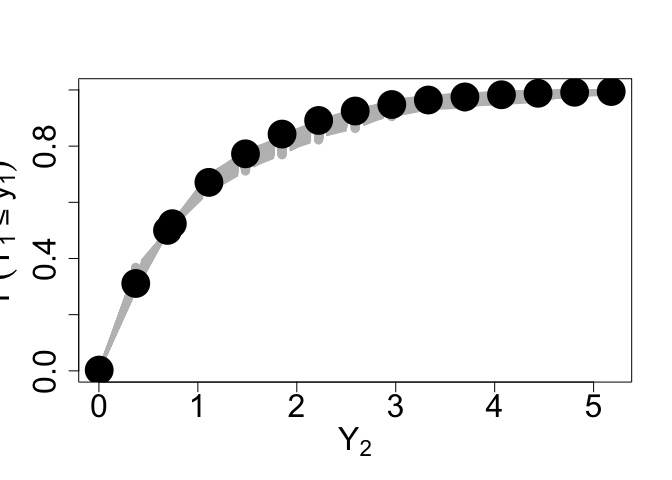
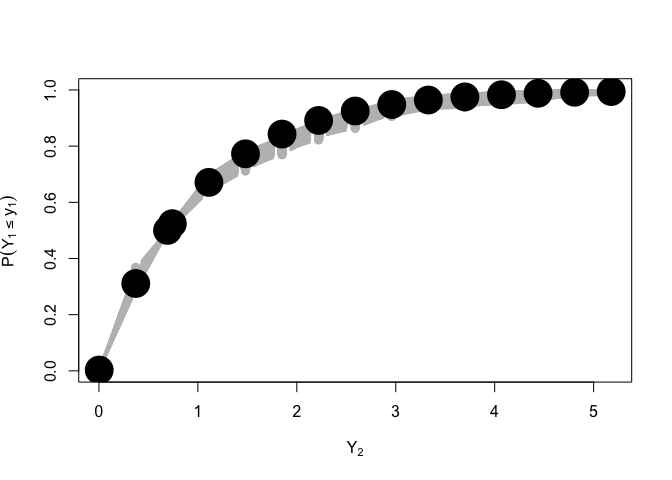
read me

diff --git a/README.md b/README.md
@@ -53,7 +53,7 @@ $\boldsymbol Y_{ij}$ for $R_{ij}>0$.
   print("Missingness in Each Y_j:")
 #> [1] "Missingness in Each Y_j:"
   print(colMeans(R))
-#> [1] 0.506 0.494 0.506 0.497 0.489
+#> [1] 0.500 0.493 0.504 0.501 0.490
 
   # Now we'll create the study variables. Here we use gamma, t, and beta marginals 
   
@@ -90,29 +90,29 @@ $\boldsymbol Y_{ij}$ for $R_{ij}>0$.
       print("Summary of (Y^obs, R)")
 #> [1] "Summary of (Y^obs, R)"
       print(summary(Y_obs))
-#>       Y_j              Y_j               Y_j              Y_j        
-#>  Min.   :0.0081   Min.   :-0.0355   Min.   :0.0090   Min.   :0.0019  
-#>  1st Qu.:0.4302   1st Qu.: 1.9208   1st Qu.:0.2646   1st Qu.:0.2944  
-#>  Median :0.9727   Median : 2.6170   Median :0.4255   Median :0.6834  
-#>  Mean   :1.2575   Mean   : 3.0192   Mean   :0.4416   Mean   :0.9734  
-#>  3rd Qu.:1.7460   3rd Qu.: 3.8264   3rd Qu.:0.6164   3rd Qu.:1.2889  
-#>  Max.   :6.5230   Max.   : 9.9533   Max.   :0.9736   Max.   :5.7611  
-#>  NA's   :506      NA's   :494       NA's   :506      NA's   :497     
-#>       Y_j               V6              V7              V8       
-#>  Min.   :-1.462   Min.   :0.000   Min.   :0.000   Min.   :0.000  
-#>  1st Qu.: 1.183   1st Qu.:0.000   1st Qu.:0.000   1st Qu.:0.000  
-#>  Median : 1.834   Median :1.000   Median :0.000   Median :1.000  
-#>  Mean   : 2.091   Mean   :0.506   Mean   :0.494   Mean   :0.506  
-#>  3rd Qu.: 2.761   3rd Qu.:1.000   3rd Qu.:1.000   3rd Qu.:1.000  
-#>  Max.   :10.089   Max.   :1.000   Max.   :1.000   Max.   :1.000  
-#>  NA's   :489                                                     
-#>        V9             V10       
-#>  Min.   :0.000   Min.   :0.000  
-#>  1st Qu.:0.000   1st Qu.:0.000  
-#>  Median :0.000   Median :0.000  
-#>  Mean   :0.497   Mean   :0.489  
-#>  3rd Qu.:1.000   3rd Qu.:1.000  
-#>  Max.   :1.000   Max.   :1.000  
+#>       Y_j              Y_j              Y_j              Y_j        
+#>  Min.   :0.0049   Min.   :-1.832   Min.   :0.0006   Min.   :0.0003  
+#>  1st Qu.:0.2970   1st Qu.: 1.181   1st Qu.:0.1080   1st Qu.:0.2655  
+#>  Median :0.6921   Median : 1.974   Median :0.2324   Median :0.6585  
+#>  Mean   :1.0209   Mean   : 2.185   Mean   :0.2797   Mean   :0.9427  
+#>  3rd Qu.:1.4553   3rd Qu.: 2.940   3rd Qu.:0.4061   3rd Qu.:1.2528  
+#>  Max.   :7.8066   Max.   : 8.637   Max.   :0.9299   Max.   :7.1838  
+#>  NA's   :500      NA's   :493      NA's   :504      NA's   :501     
+#>       Y_j                V6            V7              V8       
+#>  Min.   :-1.8681   Min.   :0.0   Min.   :0.000   Min.   :0.000  
+#>  1st Qu.: 0.9891   1st Qu.:0.0   1st Qu.:0.000   1st Qu.:0.000  
+#>  Median : 1.6290   Median :0.5   Median :0.000   Median :1.000  
+#>  Mean   : 1.7518   Mean   :0.5   Mean   :0.493   Mean   :0.504  
+#>  3rd Qu.: 2.4742   3rd Qu.:1.0   3rd Qu.:1.000   3rd Qu.:1.000  
+#>  Max.   : 6.5849   Max.   :1.0   Max.   :1.000   Max.   :1.000  
+#>  NA's   :490                                                    
+#>        V9             V10      
+#>  Min.   :0.000   Min.   :0.00  
+#>  1st Qu.:0.000   1st Qu.:0.00  
+#>  Median :1.000   Median :0.00  
+#>  Mean   :0.501   Mean   :0.49  
+#>  3rd Qu.:1.000   3rd Qu.:1.00  
+#>  Max.   :1.000   Max.   :1.00  
 #> 
 ```
 
@@ -121,23 +121,23 @@ $\boldsymbol Y_{ij}$ for $R_{ij}>0$.
 Now we’ll estimate the EHQL copula. To do so requires several pieces of
 information specified by the user:
 
-- $\texttt{YR}$: This is the combined observed study variables and
+- $$\texttt{YR}$$: This is the combined observed study variables and
   missingness indicators. It is given by $\texttt{Yobs}$ above.
-- $\texttt{ncolY}$: The number of study variables. In this example we
+- $$\texttt{ncolY}$$: The number of study variables. In this example we
   have $\texttt{ncolY} = 5$:
-- $\texttt{ncolR}$: The number of study variables modeled as
+- $$\texttt{ncolR}$$: The number of study variables modeled as
   non-ignorable. In this example we have $\texttt{ncolR} = 5$
 - aux_quantiles: auxiliary quantiles assumed known for each study
   variable. This is a list of length $\texttt{ncolY}$, where the
-  aux_quantiles\[\[j\]\] = $(0,\{\tau_{k_{j}}\}_{k=1}^{q},...,1\}$,
-  i.e. there are $q_{j}+2$ auxiliary quantiles assumed known for each
-  variable. If $\texttt{aux_quantiles[[j]]}$ is null, empirical deciles
-  will be used. Note the quantiles for each variable do not need to be
-  unique.
-- aux_infos: This is a list of length $\texttt{ncolY}$ where
+  aux_quantiles\[\[j\]\] = $$(0,\{\tau_{k_{j}}\}_{k=1}^{q},...,1\}$$,
+  i.e. there are $$q_{j}+2$$ auxiliary quantiles assumed known for each
+  variable. If $$\texttt{aux_quantiles[[j]]}$$ is null, empirical
+  deciles will be used. Note the quantiles for each variable do not need
+  to be unique.
+- aux_infos: This is a list of length $$\texttt{ncolY}$$ where
   aux_infos\[\[j\]\] =
-  $(F_{j}^{-1}(0),\{F_{j}^{-1}(\tau_{k_{j}})\}_{k=1}^{q},...,F_{j}^{-1}(1)\}$
-- $\texttt{MA}$: vector of length ncolY indicating whether or not to
+  $$(F_{j}^{-1}(0),\{F_{j}^{-1}(\tau_{k_{j}})\}_{k=1}^{q},...,F_{j}^{-1}(1)\}$$
+- $$\texttt{MA}$$: vector of length ncolY indicating whether or not to
   compute the margin adjustment. This is strongly recommended for all
   levels of auxiliary information, and especially when auxiliary
   information is extremely sparse, as it propagates uncertainty about
@@ -221,9 +221,6 @@ Analyze margin Adjustment
     plot(imps$x_ma[[j]],imps$MAs[[j]][1,], type = 'n', xlab = expression(Y[2]),
          ylab = expression(paste(P(Y[2]<=y[2]))),
          main =paste("Margin Adjustment Posterior Samples"),
-         cex.main = 3,
-         cex.axis = 2,
-         cex.lab = 2,
          ylim = c(0,1),
          lwd = 3, 
          cex = 2)
@@ -231,9 +228,6 @@ Analyze margin Adjustment
       plot(imps$x_ma[[j]],imps$MAs[[j]][1,], type = 'n', xlab = expression(Y[2]),
          ylab = expression(paste(P(Y[1]<=y[1]))),
          main =paste(""),
-         cex.main = 3,
-         cex.axis = 2,
-         cex.lab = 2,
          ylim = c(0,1),
          lwd = 3, 
          cex = 2)
@@ -241,9 +235,6 @@ Analyze margin Adjustment
       plot(imps$x_ma[[j]],imps$MAs[[j]][1,], type = 'n', xlab = expression(Y[2]),
          ylab = expression(paste(P(Y[3]<=y[3]))),
          main =paste(""),
-         cex.main = 3,
-         cex.axis = 2,
-         cex.lab = 2,
          ylim = c(0,1),
          lwd = 3, 
          cex = 2)
